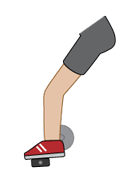
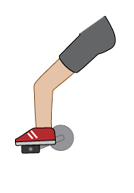
Integrated new images for biker's legs to increase animation resolution.

Changed region(s): [[0.0896, 0.1865, 0.7463, 0.8705], [0.5075, 0.6528, 0.5373, 0.6839]]

diff --git a/simulations-java/simulations/energy-forms-and-changes/src/edu/colorado/phet/energyformsandchanges/EnergyFormsAndChangesResources.java b/simulations-java/simulations/energy-forms-and-changes/src/edu/colorado/phet/energyformsandchanges/EnergyFormsAndChangesResources.java
@@ -26,7 +26,19 @@ public class EnergyFormsAndChangesResources {
         public static final BufferedImage BACK_LEG_10 = RESOURCES.getImage( "back_leg_10.png" );
         public static final BufferedImage BACK_LEG_11 = RESOURCES.getImage( "back_leg_11.png" );
         public static final BufferedImage BACK_LEG_12 = RESOURCES.getImage( "back_leg_12.png" );
+        public static final BufferedImage BACK_LEG_13 = RESOURCES.getImage( "back_leg_13.png" );
+        public static final BufferedImage BACK_LEG_14 = RESOURCES.getImage( "back_leg_14.png" );
+        public static final BufferedImage BACK_LEG_15 = RESOURCES.getImage( "back_leg_15.png" );
+        public static final BufferedImage BACK_LEG_16 = RESOURCES.getImage( "back_leg_16.png" );
+        public static final BufferedImage BACK_LEG_17 = RESOURCES.getImage( "back_leg_17.png" );
+        public static final BufferedImage BACK_LEG_18 = RESOURCES.getImage( "back_leg_18.png" );
+        public static final BufferedImage BACK_LEG_19 = RESOURCES.getImage( "back_leg_19.png" );
         public static final BufferedImage BACK_LEG_2 = RESOURCES.getImage( "back_leg_2.png" );
+        public static final BufferedImage BACK_LEG_20 = RESOURCES.getImage( "back_leg_20.png" );
+        public static final BufferedImage BACK_LEG_21 = RESOURCES.getImage( "back_leg_21.png" );
+        public static final BufferedImage BACK_LEG_22 = RESOURCES.getImage( "back_leg_22.png" );
+        public static final BufferedImage BACK_LEG_23 = RESOURCES.getImage( "back_leg_23.png" );
+        public static final BufferedImage BACK_LEG_24 = RESOURCES.getImage( "back_leg_24.png" );
         public static final BufferedImage BACK_LEG_3 = RESOURCES.getImage( "back_leg_3.png" );
         public static final BufferedImage BACK_LEG_4 = RESOURCES.getImage( "back_leg_4.png" );
         public static final BufferedImage BACK_LEG_5 = RESOURCES.getImage( "back_leg_5.png" );
@@ -75,7 +87,19 @@ public class EnergyFormsAndChangesResources {
         public static final BufferedImage FRONT_LEG_10 = RESOURCES.getImage( "front_leg_10.png" );
         public static final BufferedImage FRONT_LEG_11 = RESOURCES.getImage( "front_leg_11.png" );
         public static final BufferedImage FRONT_LEG_12 = RESOURCES.getImage( "front_leg_12.png" );
+        public static final BufferedImage FRONT_LEG_13 = RESOURCES.getImage( "front_leg_13.png" );
+        public static final BufferedImage FRONT_LEG_14 = RESOURCES.getImage( "front_leg_14.png" );
+        public static final BufferedImage FRONT_LEG_15 = RESOURCES.getImage( "front_leg_15.png" );
+        public static final BufferedImage FRONT_LEG_16 = RESOURCES.getImage( "front_leg_16.png" );
+        public static final BufferedImage FRONT_LEG_17 = RESOURCES.getImage( "front_leg_17.png" );
+        public static final BufferedImage FRONT_LEG_18 = RESOURCES.getImage( "front_leg_18.png" );
+        public static final BufferedImage FRONT_LEG_19 = RESOURCES.getImage( "front_leg_19.png" );
         public static final BufferedImage FRONT_LEG_2 = RESOURCES.getImage( "front_leg_2.png" );
+        public static final BufferedImage FRONT_LEG_20 = RESOURCES.getImage( "front_leg_20.png" );
+        public static final BufferedImage FRONT_LEG_21 = RESOURCES.getImage( "front_leg_21.png" );
+        public static final BufferedImage FRONT_LEG_22 = RESOURCES.getImage( "front_leg_22.png" );
+        public static final BufferedImage FRONT_LEG_23 = RESOURCES.getImage( "front_leg_23.png" );
+        public static final BufferedImage FRONT_LEG_24 = RESOURCES.getImage( "front_leg_24.png" );
         public static final BufferedImage FRONT_LEG_3 = RESOURCES.getImage( "front_leg_3.png" );
         public static final BufferedImage FRONT_LEG_4 = RESOURCES.getImage( "front_leg_4.png" );
         public static final BufferedImage FRONT_LEG_5 = RESOURCES.getImage( "front_leg_5.png" );

diff --git a/simulations-java/simulations/energy-forms-and-changes/src/edu/colorado/phet/energyformsandchanges/energysystems/model/Biker.java b/simulations-java/simulations/energy-forms-and-changes/src/edu/colorado/phet/energyformsandchanges/energysystems/model/Biker.java
@@ -67,6 +67,18 @@ public class Biker extends EnergySource {
         add( new ModelElementImage( FRONT_LEG_10, FRAME_CENTER_OFFSET.plus( LEG_IMAGE_OFFSET ) ) );
         add( new ModelElementImage( FRONT_LEG_11, FRAME_CENTER_OFFSET.plus( LEG_IMAGE_OFFSET ) ) );
         add( new ModelElementImage( FRONT_LEG_12, FRAME_CENTER_OFFSET.plus( LEG_IMAGE_OFFSET ) ) );
+        add( new ModelElementImage( FRONT_LEG_13, FRAME_CENTER_OFFSET.plus( LEG_IMAGE_OFFSET ) ) );
+        add( new ModelElementImage( FRONT_LEG_14, FRAME_CENTER_OFFSET.plus( LEG_IMAGE_OFFSET ) ) );
+        add( new ModelElementImage( FRONT_LEG_15, FRAME_CENTER_OFFSET.plus( LEG_IMAGE_OFFSET ) ) );
+        add( new ModelElementImage( FRONT_LEG_16, FRAME_CENTER_OFFSET.plus( LEG_IMAGE_OFFSET ) ) );
+        add( new ModelElementImage( FRONT_LEG_17, FRAME_CENTER_OFFSET.plus( LEG_IMAGE_OFFSET ) ) );
+        add( new ModelElementImage( FRONT_LEG_18, FRAME_CENTER_OFFSET.plus( LEG_IMAGE_OFFSET ) ) );
+        add( new ModelElementImage( FRONT_LEG_19, FRAME_CENTER_OFFSET.plus( LEG_IMAGE_OFFSET ) ) );
+        add( new ModelElementImage( FRONT_LEG_20, FRAME_CENTER_OFFSET.plus( LEG_IMAGE_OFFSET ) ) );
+        add( new ModelElementImage( FRONT_LEG_21, FRAME_CENTER_OFFSET.plus( LEG_IMAGE_OFFSET ) ) );
+        add( new ModelElementImage( FRONT_LEG_22, FRAME_CENTER_OFFSET.plus( LEG_IMAGE_OFFSET ) ) );
+        add( new ModelElementImage( FRONT_LEG_23, FRAME_CENTER_OFFSET.plus( LEG_IMAGE_OFFSET ) ) );
+        add( new ModelElementImage( FRONT_LEG_24, FRAME_CENTER_OFFSET.plus( LEG_IMAGE_OFFSET ) ) );
     }};
 
     public static final List<ModelElementImage> BACK_LEG_IMAGES = new ArrayList<ModelElementImage>() {{
@@ -82,6 +94,18 @@ public class Biker extends EnergySource {
         add( new ModelElementImage( BACK_LEG_10, FRAME_CENTER_OFFSET.plus( LEG_IMAGE_OFFSET ) ) );
         add( new ModelElementImage( BACK_LEG_11, FRAME_CENTER_OFFSET.plus( LEG_IMAGE_OFFSET ) ) );
         add( new ModelElementImage( BACK_LEG_12, FRAME_CENTER_OFFSET.plus( LEG_IMAGE_OFFSET ) ) );
+        add( new ModelElementImage( BACK_LEG_13, FRAME_CENTER_OFFSET.plus( LEG_IMAGE_OFFSET ) ) );
+        add( new ModelElementImage( BACK_LEG_14, FRAME_CENTER_OFFSET.plus( LEG_IMAGE_OFFSET ) ) );
+        add( new ModelElementImage( BACK_LEG_15, FRAME_CENTER_OFFSET.plus( LEG_IMAGE_OFFSET ) ) );
+        add( new ModelElementImage( BACK_LEG_16, FRAME_CENTER_OFFSET.plus( LEG_IMAGE_OFFSET ) ) );
+        add( new ModelElementImage( BACK_LEG_17, FRAME_CENTER_OFFSET.plus( LEG_IMAGE_OFFSET ) ) );
+        add( new ModelElementImage( BACK_LEG_18, FRAME_CENTER_OFFSET.plus( LEG_IMAGE_OFFSET ) ) );
+        add( new ModelElementImage( BACK_LEG_19, FRAME_CENTER_OFFSET.plus( LEG_IMAGE_OFFSET ) ) );
+        add( new ModelElementImage( BACK_LEG_20, FRAME_CENTER_OFFSET.plus( LEG_IMAGE_OFFSET ) ) );
+        add( new ModelElementImage( BACK_LEG_21, FRAME_CENTER_OFFSET.plus( LEG_IMAGE_OFFSET ) ) );
+        add( new ModelElementImage( BACK_LEG_22, FRAME_CENTER_OFFSET.plus( LEG_IMAGE_OFFSET ) ) );
+        add( new ModelElementImage( BACK_LEG_23, FRAME_CENTER_OFFSET.plus( LEG_IMAGE_OFFSET ) ) );
+        add( new ModelElementImage( BACK_LEG_24, FRAME_CENTER_OFFSET.plus( LEG_IMAGE_OFFSET ) ) );
     }};
 
     // Offsets used for creating energy chunk paths.  These need to be
